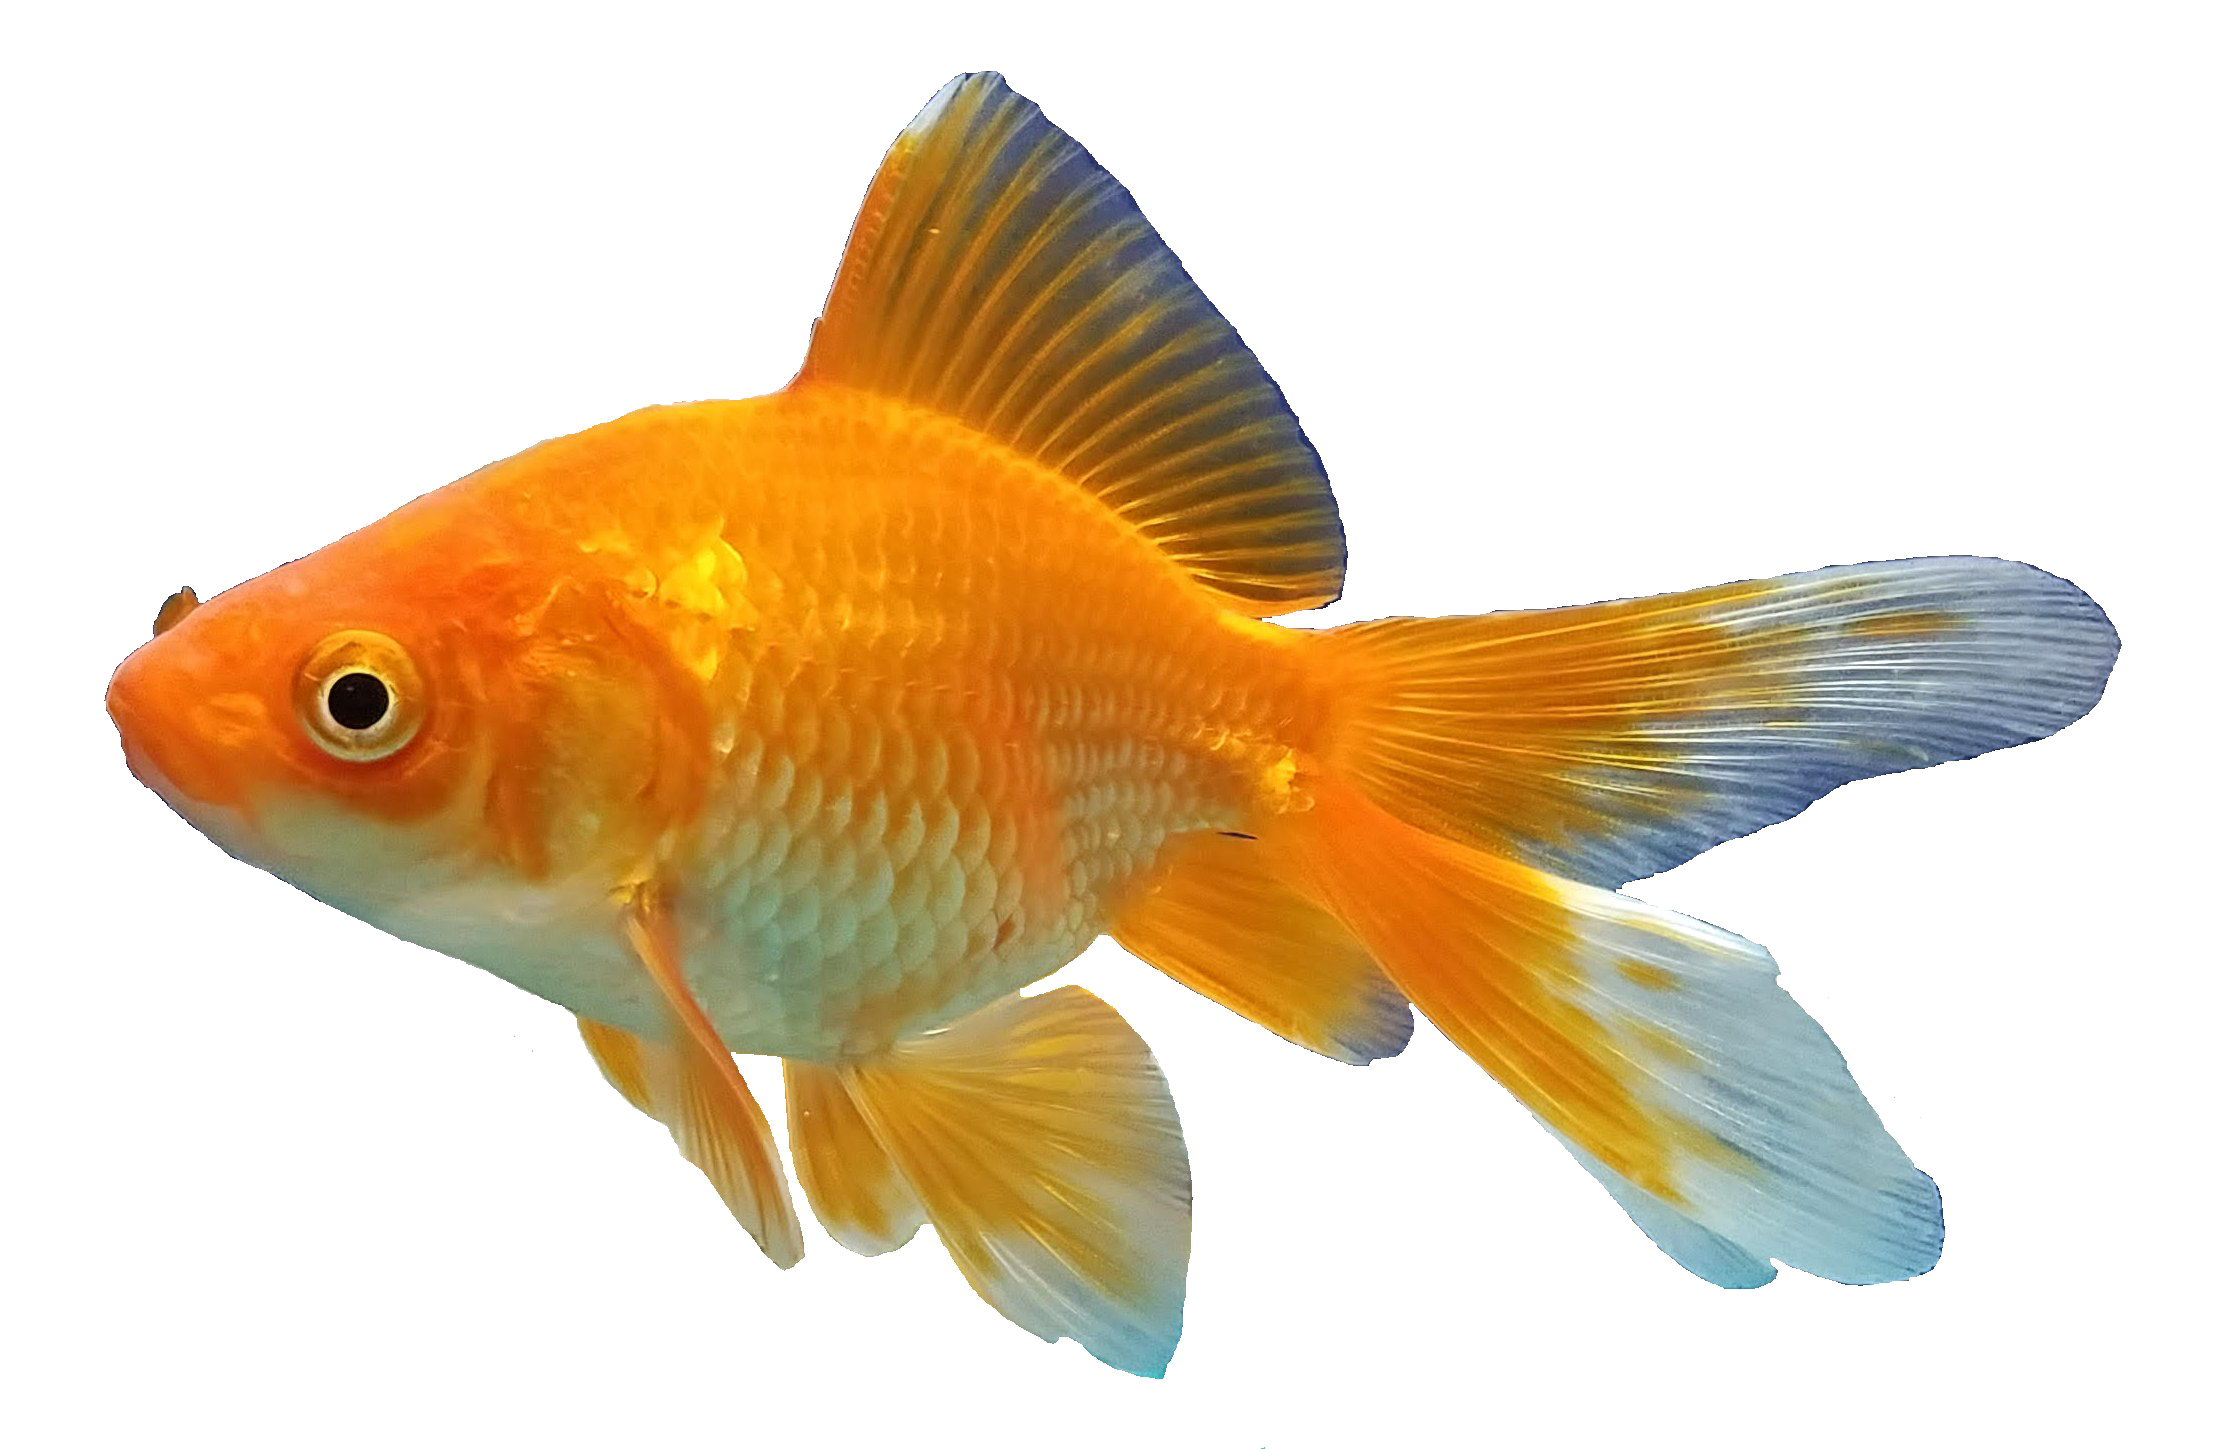
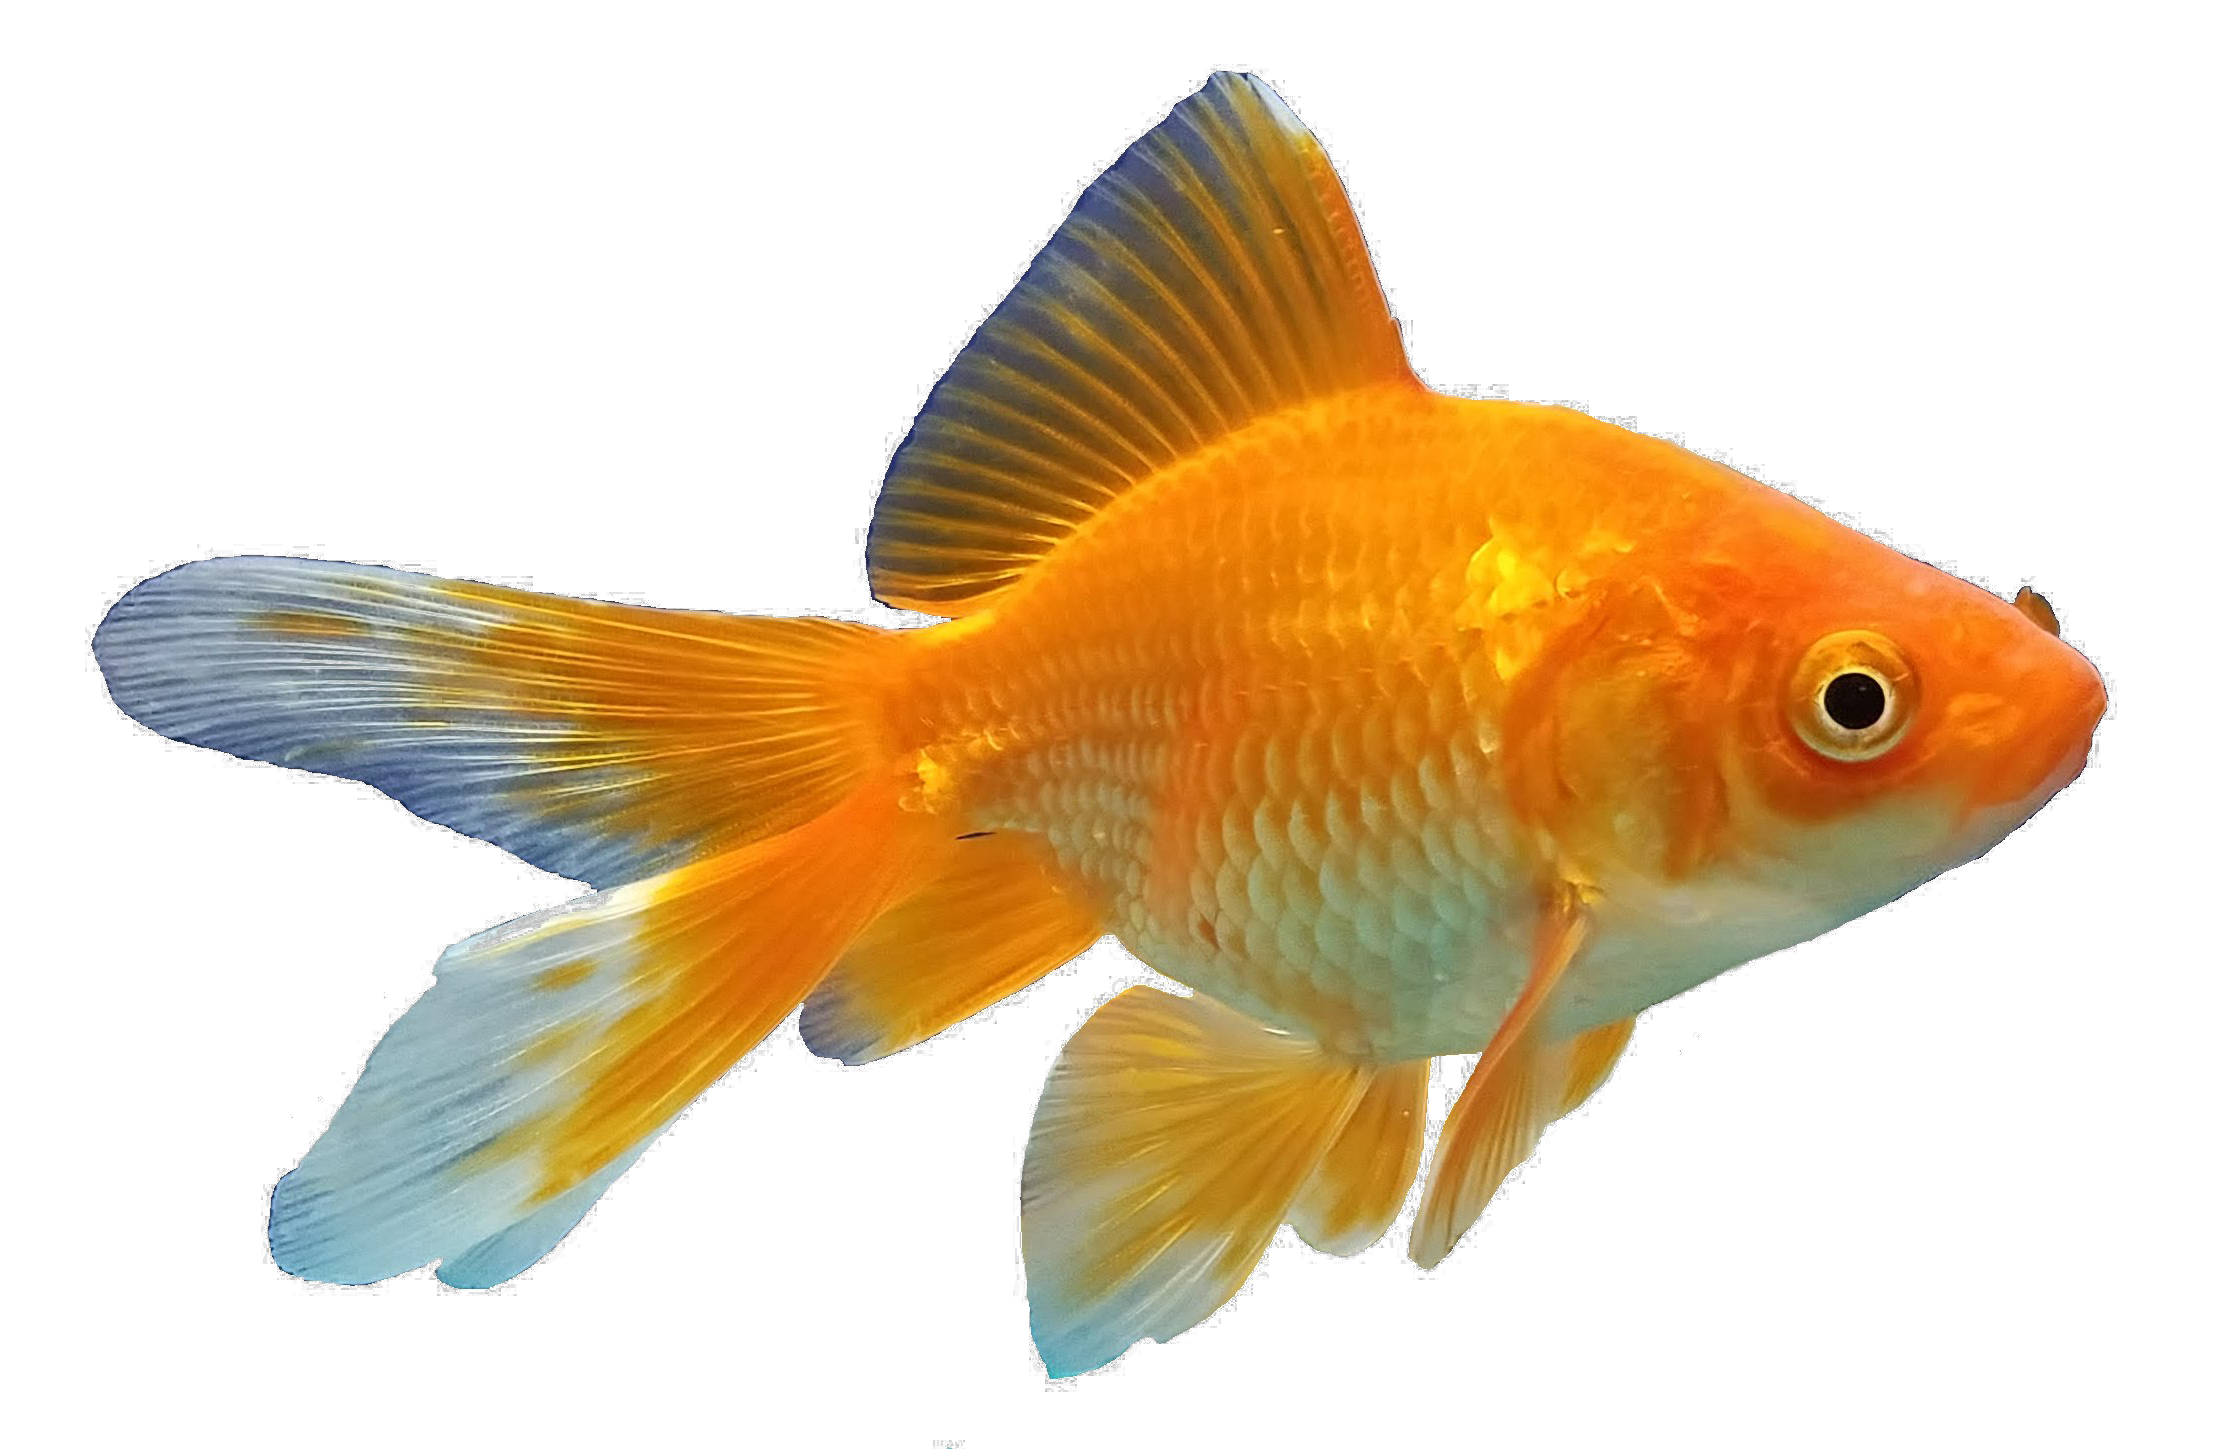
'ready'

diff --git a/main.js b/main.js
@@ -3,12 +3,41 @@ const app = Vue.createApp({
     data: () => ({
         name: '',
         user: {},
+        scores: 0, 
         fishes: [],
         modal: true,
-        field : {}
+        field : {},
+        timer: {},
+        end: false,
+        local: []
     }),
-
     methods: {
+        myTimer() {
+            const timer = setInterval(() => {
+                if (this.timer.min < 10) {
+                    this.timer.minText = '0' + this.timer.min
+                } else this.timer.minText = this.timer.min
+                if (this.timer.sec < 10) {
+                    this.timer.secText = '0' + this.timer.sec
+                } else this.timer.secText = this.timer.sec
+                if (this.timer.sec === 0) {
+                    this.timer.sec = 59
+                    this.timer.min --
+                } else this.timer.sec --
+                if (this.timer.min === 0 && this.timer.sec === 0) {
+                    clearInterval(timer)
+                    this.end = true
+                    this.local.push(this.scores)
+                    this.local = this.local.sort((a, b) => {
+                        if (a < b) return 1
+                        if (a > b) return -1
+                        return 0
+                    })
+                    localStorage.local = JSON.stringify(this.local.slice(0, 10))
+
+                }
+            }, 1000)
+        },
         getData() {
             let heightField = this.$refs.field.clientHeight
             let widthField = this.$refs.field.clientWidth
@@ -16,69 +45,102 @@ const app = Vue.createApp({
                 width : widthField,
                 height : heightField
             }
-            let fishesRefs = []
-            let oneFish = ''
-            for (let i = 0; i < 10; i++) {
-                oneFish = eval('this.$refs.fish' + i + 1)
-                fishesRefs.push(oneFish)
-            }
-            return {
-                field: {
-                    width : widthField,
-                    height : heightField
-                },
-                fishesRefs
-            }
         },
         start() {
-            for (let i = 0; i < 10; i++) {
-                let fishNum = Math.floor(Math.random() * (4 - 1) + 1)
+            this.scores = 0
+            this.timer = {min: 0, sec: 1, minText: '', secText: ''}
+            this.fishes = []
+            this.end = false
+
+            if (this.name !== '') {
+                this.user.name = this.name
+                this.modal = false
+                this.myTimer()
+                for (let i = 0; i < 10; i++) {
+                    this.createFish()
+                }
+            }
+            
+
+        },
+        
+        createFish() {
+            let fishNum = 1
+            let chance = Math.floor(Math.random() * 100)
+            console.log(chance)
+            if (chance <= 10) {
+                fishNum = 3
+            } else if (chance <= 30) {
+                fishNum = 2
+            } else if (chance <= 60) {
+                fishNum = 1
+            }
                 let fish = {}
                 switch (fishNum) {
                     case 1:
                         fish.name = 'img/fish-1.png'
                         fish.scores = 1
-                        fish.speed = 1
+                        fish.speed = 30
                         break
                     case 2:
                         fish.name = 'img/fish-2.png'
                         fish.scores = 2
-                        fish.speed = 2
+                        fish.speed = 20
                         break
                     case 3:
                         fish.name = 'img/fish-3.png'
                         fish.scores = 3
-                        fish.speed = 3
+                        fish.speed = 5
                         break
                     default:
                         break
                 }
-                fish.coords = {left: Math.floor(Math.random() * this.field.width), top: Math.floor(Math.random() * this.field.height)}
+                fish.coords = {left: Math.floor(Math.random() * this.field.width - 150), top: Math.floor(Math.random() * (this.field.height - 300) + 150)}
+                fish.direction = false
                 this.fishes.push(fish)
-            }
-
-            if (this.name !== '') {
-                this.user.name = this.name
-                this.modal = false
-                console.log(this.fishes[5])
-                let fish = this.$refs.fish3
-                console.log(fish)
-                setTimeout(() => console.log(this.getData()), 0)
-            }
-
+                this.move()
         },
 
-        move(fish) {
-            setInterval(() => {
-
-            })
-        }
+        move() {
+            this.fishes.forEach(fish => {
+                const fishMove = setInterval(() => {
+                    if (fish.coords.left === this.field.width) {
+                        fish.direction = true
+                    }
+                    if (fish.coords.left === -150) {
+                        fish.direction = false
+                    }
+                    if (fish.direction) {
+                        fish.coords.left -= 1
+                    } else {
+                        fish.coords.left += 1
+                    }
+                    if (this.end) {
+                        clearInterval(fishMove)
+                        
+                    }
+                }, 50)
+            });
+        },
+        
+        fishClick(index) {
+            this.scores += this.fishes[index].scores
+            this.fishes.splice(index, 1)
+            this.createFish()
+        },
     },
 
     mounted () {
         setTimeout(() => this.getData(), 0)
+        if (localStorage.local) {
+            this.local = typeof JSON.parse(localStorage.local) === "number" ? [JSON.parse(localStorage.local)] : JSON.parse(localStorage.local)
+            this.local = this.local.sort((a, b) => {
+                if (a < b) return 1
+                if (a > b) return -1
+                return 0
+            }).slice(0, 10)
+            }
     },
 
 }).mount('#app')
-
 

diff --git a/index.html b/index.html
@@ -7,11 +7,14 @@
     <script defer src="main.js"></script>
     <link rel="stylesheet" href="style.css">
     <link href="https://cdn.jsdelivr.net/npm/bootstrap@5.1.3/dist/css/bootstrap.min.css" rel="stylesheet" integrity="sha384-1BmE4kWBq78iYhFldvKuhfTAU6auU8tT94WrHftjDbrCEXSU1oBoqyl2QvZ6jIW3" crossorigin="anonymous">
+    <script src="https://cdnjs.cloudflare.com/ajax/libs/lodash.js/4.14.1/lodash.min.js"></script>
+
     <title>Fishes</title>
 </head>
 <body>
     <div id="app" v-cloak>
         <div class="main">
+            <transition name="fade">
             <div v-if="modal" class="row d-flex justify-content-center">
                 <div class="mymodal">
                     <div class="col-4 card shadow-lg p-3 mb-5 bg-body rounded">
@@ -23,21 +26,46 @@
                     </div>
                 </div>
             </div>
+        </transition>
             <div class="row d-flex justify-content-between">
                 <div  ref="field" class="field card col-9">
-                    <div class="fish" v-for="(fish, index) in fishes" :key="index" :style="{'left':fish.coords.left, 'top':fish.coords.top}" :ref="'fish' + (index + 1)" v-cloak>
+                    <div class="fish" 
+                    @click="fishClick(index)"
+                    v-for="(fish, index) in fishes" :key="index" 
+                    :style="{'left':fish.coords.left, 'top':fish.coords.top}" 
+                    :class="{'direction': fish.direction}">
                         <img :src="fish.name" alt="">
                     </div>
                 </div>
                 <div class="col-3 card pt-3">
                     <h3>Рекорды</h3>
-                    <ul class="list-group list-group-flush">
-                        <li class="list-group-item">An item</li>
-                        <li class="list-group-item">A second item</li>
-                        <li class="list-group-item">A third item</li>
+                    <transition-group class="list-group list-group-flush mb-3" name="flip-list" tag="ul">
+                        <li class="list-group-item" v-for="item in local" :key="item">
+                            {{ item }}
+                          </li>                        </transition-group>
+                        <ul class="list-group list-group-flush mb-3">    
+                        <li class="list-group-item">Баллов набрали
+                            <span class="badge bg-primary rounded-pill">{{scores}}</span>
+                        </li>
+                        <li v-if="timer.minText" class="list-group-item">Таймер:
+                            <span>{{timer.minText}}</span>:<span>{{timer.secText}}</span>
+                        </li>
                     </ul>
                 </div>
             </div>
+            <transition name="fade">
+                <div v-if="end" class="row d-flex justify-content-center">
+                    <div class="mymodal">
+                        <div class="col-4 card shadow-lg p-3 mb-5 bg-body rounded">
+                            <div class="card-body">
+                                <h5 class="mb-3">Игра окончена</h5>
+                                <p>Счет: {{scores}}</p>
+                                <button @click="start" class="btn btn-success">Начать заново</button>
+                            </div>
+                        </div>
+                    </div>
+                </div>
+            </transition>
         </div>
     </div>
 </body>

diff --git a/style.css b/style.css
@@ -42,3 +42,20 @@ img {
 .fish {
     position: absolute;
 }
+
+.direction {
+    transform: scale(-1, 1);
+}
+
+.fade-enter-active, .fade-leave-active {
+    transition: opacity .5s;
+  }
+  .fade-enter, .fade-leave-to /* .fade-leave-active до версии 2.1.8 */ {
+    opacity: 0;
+  }
+
+
+
+  .flip-list-move {
+    transition: transform 1s;
+  }
